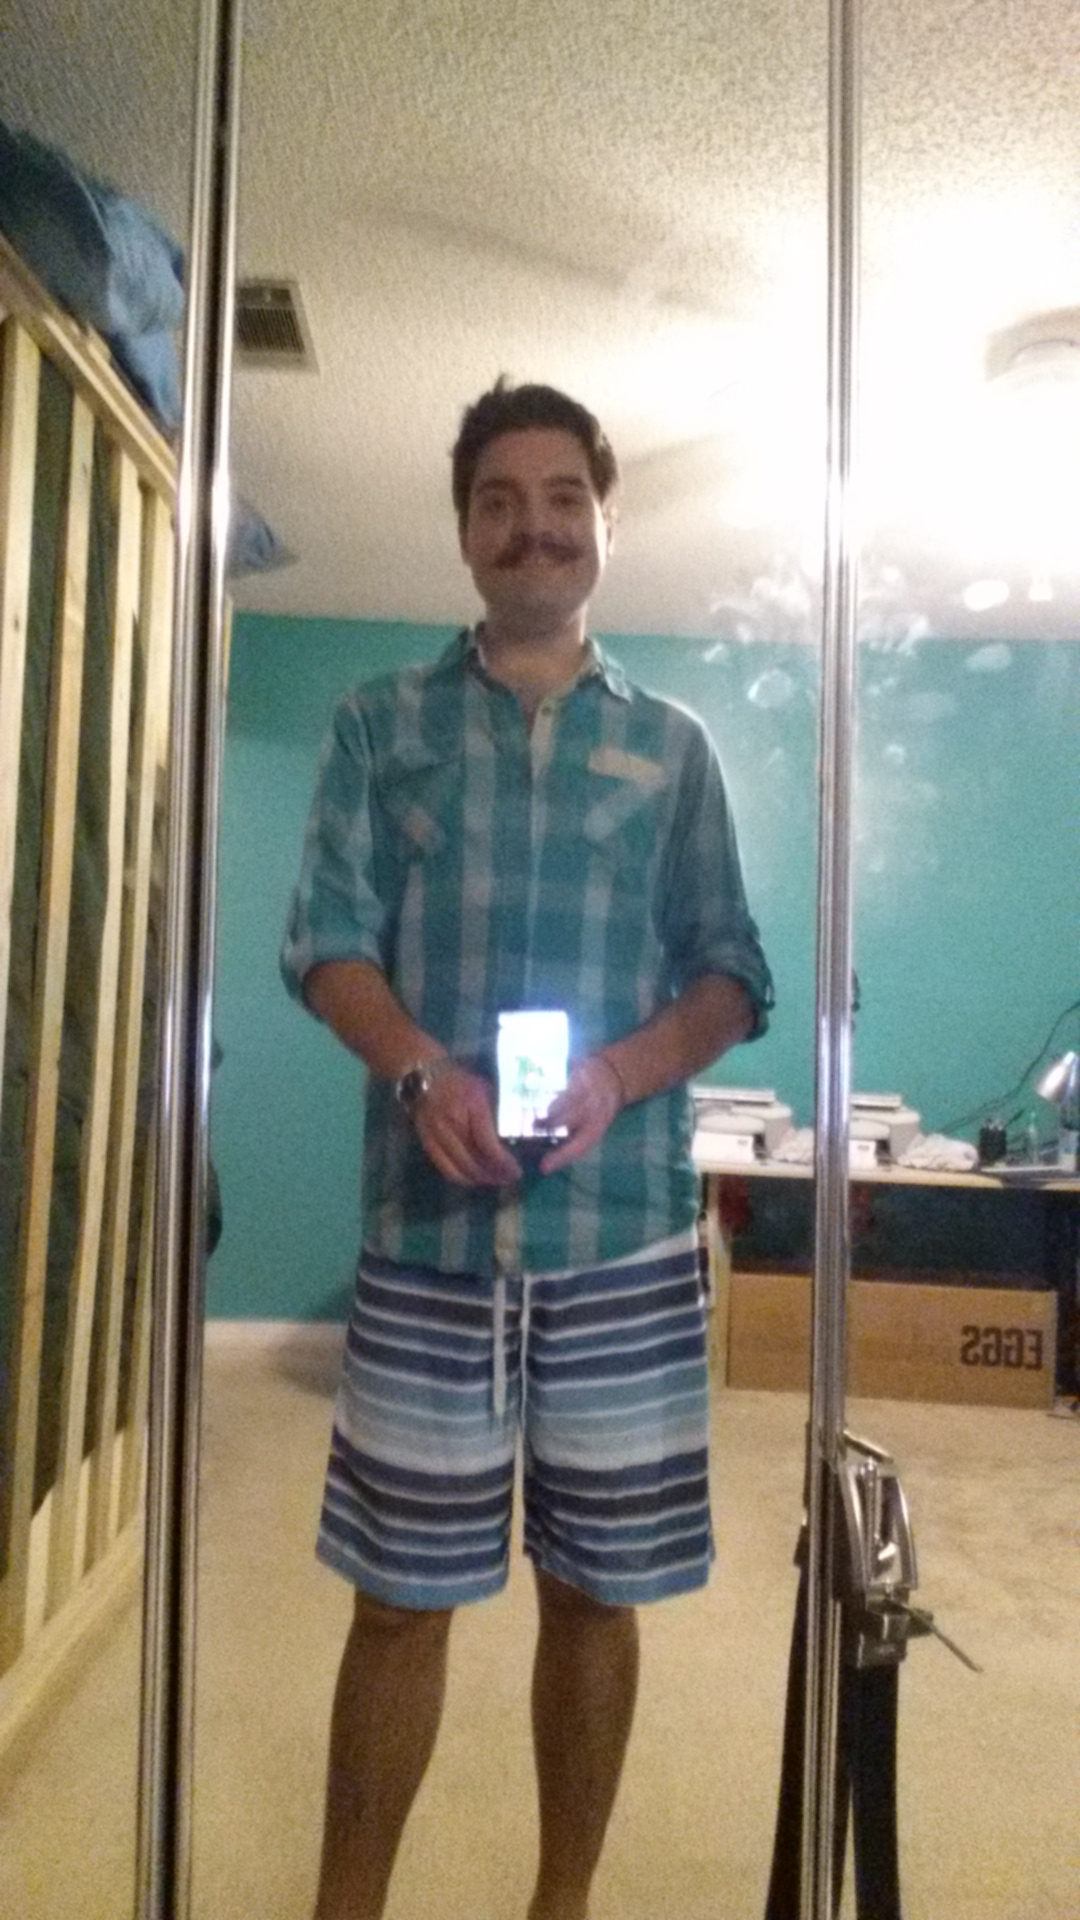
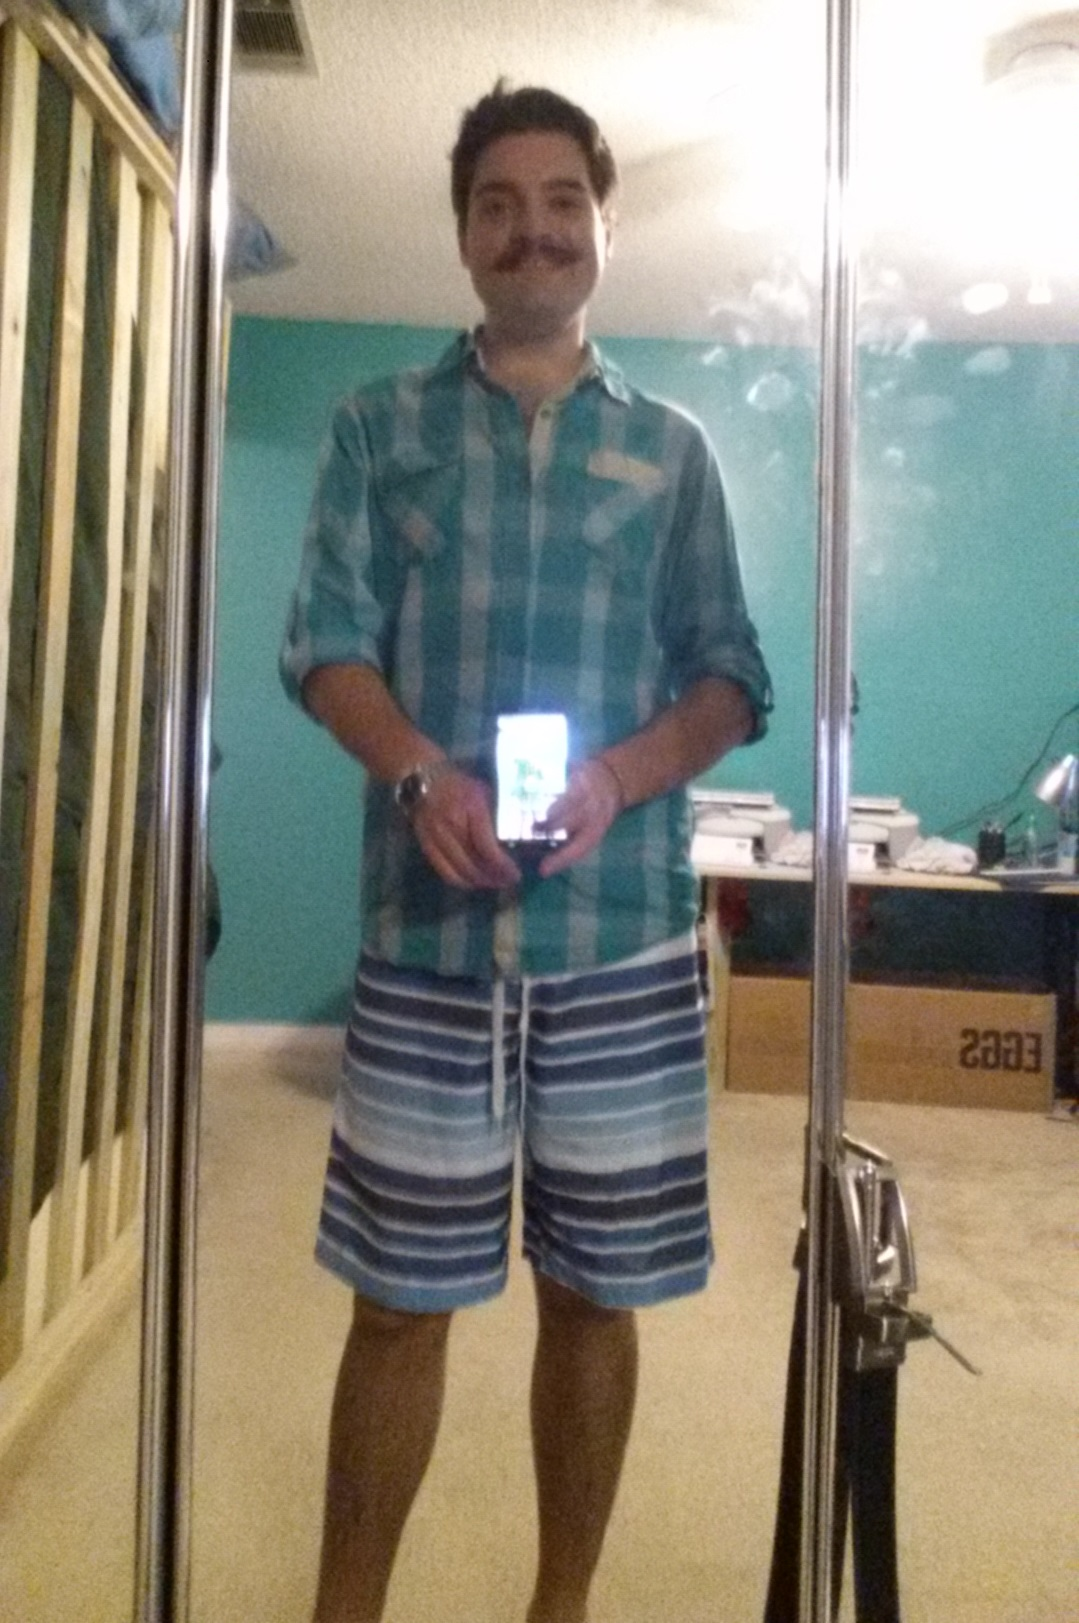
stuff

diff --git a/DateTheFleming.html b/DateTheFleming.html
@@ -68,7 +68,7 @@
         <div class="container">
             <div class="row">
                 <div class="col-lg-12">
-                    <img class="img-responsive" src="img/self/main.jpg" alt="" height="200" width="200">
+                    <img class="img-responsive" src="img/self/main_2.jpg" alt="" height="200" width="200">
                     <div class="intro-text">
                         <span class="name">Date The Fleming</span>
                         <hr class="star-light">
@@ -92,7 +92,7 @@
                     <a href="#picturesModal1" class="pictures-link" data-toggle="modal">
                         <div class="caption">
                             <div class="caption-content">
-                                <i class="fa fa-search-plus fa-3x"></i>
+                                <i class="fa fa-search-plus fa-3x"></i>Lunch Time? Hammok Time!
                             </div>
                         </div>
                         <img src="img/self/first.jpg" class="img-responsive" alt="" height="200"/>
@@ -102,7 +102,7 @@
                     <a href="#picturesModal2" class="pictures-link" data-toggle="modal">
                         <div class="caption">
                             <div class="caption-content">
-                                <i class="fa fa-search-plus fa-3x"></i>
+                                <i class="fa fa-search-plus fa-3x"></i>Time For A Hair Cut.
                             </div>
                         </div>
                         <img src="img/self/second.jpg" class="img-responsive" alt=""  height="200"/>
@@ -112,7 +112,7 @@
                     <a href="#picturesModal3" class="pictures-link" data-toggle="modal">
                         <div class="caption">
                             <div class="caption-content">
-                                <i class="fa fa-search-plus fa-3x"></i>
+                                <i class="fa fa-search-plus fa-3x"></i>New Town House!
                             </div>
                         </div>
                         <img src="img/self/third.jpg" class="img-responsive" alt=""  height="200"/>
@@ -122,7 +122,7 @@
                     <a href="#picturesModal4" class="pictures-link" data-toggle="modal">
                         <div class="caption">
                             <div class="caption-content">
-                                <i class="fa fa-search-plus fa-3x"></i>
+                                <i class="fa fa-search-plus fa-3x"></i>Driving Is Fun.
                             </div>
                         </div>
                         <img src="img/self/fourth.jpg" class="img-responsive" alt=""  height="200"/>
@@ -134,7 +134,7 @@
                     <a href="#picturesModal5" class="pictures-link" data-toggle="modal">
                         <div class="caption">
                             <div class="caption-content">
-                                <i class="fa fa-search-plus fa-3x"></i>
+                                <i class="fa fa-search-plus fa-3x"></i>Party Time!
                             </div>
                         </div>
                         <img src="img/self/fifth.jpg" class="img-responsive" alt=""  height="200"/>
@@ -144,7 +144,7 @@
                     <a href="#picturesModal6" class="pictures-link" data-toggle="modal">
                         <div class="caption">
                             <div class="caption-content">
-                                <i class="fa fa-search-plus fa-3x"></i>
+                                <i class="fa fa-search-plus fa-3x"></i>Disaster Selfie!
                             </div>
                         </div>
                         <img src="img/self/sixth.jpg" class="img-responsive" alt="" width="200"/>
@@ -154,7 +154,7 @@
                     <a href="#picturesModal7" class="pictures-link" data-toggle="modal">
                         <div class="caption">
                             <div class="caption-content">
-                                <i class="fa fa-search-plus fa-3x"></i>
+                                <i class="fa fa-search-plus fa-3x"></i>Graduation Party.
                             </div>
                         </div>
                         <img src="img/self/seventh.jpg" class="img-responsive" alt="" height="200"/>
@@ -174,14 +174,14 @@
             </div>
             <div class="row">
                 <div class="col-lg-4 col-lg-offset-2">
-                    <p>Hello! My name is Samuel Fleming, and I'm looking for a fun loving gal to share life with. I built this website to test an idea I had a few days ago; why not build an online dating website for myself! </p>
+                    <p>Hello! My name is Samuel Fleming, and I'm looking for a fun loving gal to share life with. I built this website to test an idea I had a few days ago; why not build an online dating website for myself!? </p>
                 </div>
                 <div class="col-lg-4">
                     <p>If you like the laid-back engineer type, dogs, and you think road trips are a valid way to spend a weekend, hit me up.</p>
                     <p>(No picky eaters, please)</p>
                 </div>
                 <div class="col-lg-8 col-lg-offset-2 text-center">
-                    <a href="#dateTheFleming" class="btn btn-lg btn-outline">
+                    <a href="#dateTheFleming" class="btn btn-lg btn-primary">
                         <i class="glyphicon glyphicon-heart"></i> Date The Fleming
                     </a>
                 </div>
